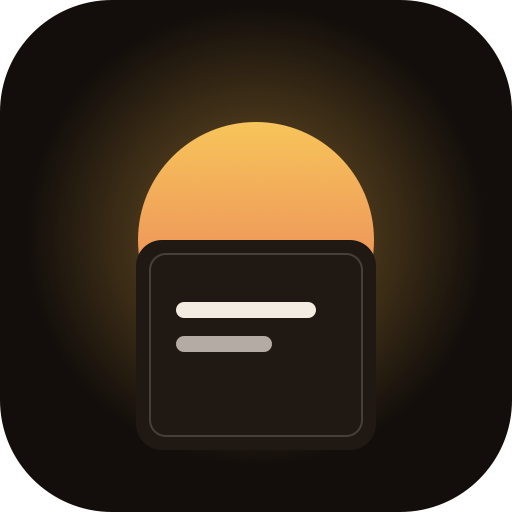
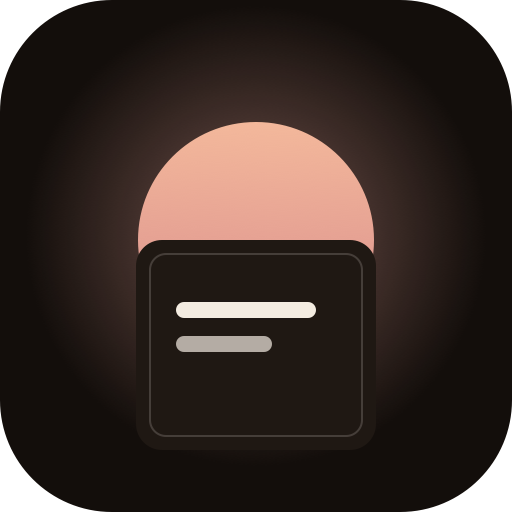
Modo claro: paleta pastel armoniosa sin ámbar (menta, lavanda, rosa, durazno; acento rosa arcilla)

Changed region(s): [[0.25, 0.2188, 0.75, 0.5]]

diff --git a/src/index.css b/src/index.css
@@ -21,37 +21,38 @@
   --ease-flip: cubic-bezier(0.65, 0, 0.35, 1);
 }
 
+/* Modo claro: pastel cálido y parejo. Base crema neutra, acento rosa arcilla, mazos en menta, lavanda, rosa y durazno. */
 :root,
 :root[data-theme='claro'] {
   color-scheme: light;
-  --bg: #f8f2ea;
-  --bg-bottom: #f3ebe0;
-  --bg-app: radial-gradient(130% 55% at 50% -8%, #fbe7d2 0%, #f8f2ea 50%, #f3ebe0 100%);
-  --bg-inicio: radial-gradient(120% 60% at 50% 18%, #fbe7d2 0%, #f8f2ea 50%, #f3ebe0 100%);
-  --surface: #fffbf6;
-  --surface-2: #efe6da;
-  --text: #2a1f18;
-  --muted: #6e5f52;
-  --muted-2: #9a8b7c;
-  --line: rgb(42 31 24 / 0.1);
-  --scrim: rgb(42 31 24 / 0.45);
-  --amber: #e9a83a;
-  --amber-hi: #f7c45a;
-  --on-amber: #1a1208;
-  --amber-text: #8a5a0e;
-  --coral: #f08a6b;
-  --coral-text: #b04a33;
-  --coral-bg: #fbe1d8;
-  --toast-bg: #2a1f18;
-  --toast-text: #f4ece1;
-  --btn2-bg: #fffbf6;
-  --btn2-shadow: inset 0 0 0 1px rgb(42 31 24 / 0.1), 0 6px 18px -12px rgb(42 31 24 / 0.35);
-  --btn1-shadow: 0 10px 24px -14px rgb(138 90 14 / 0.6);
-  --shadow-card: inset 0 1px 0 rgb(255 255 255 / 0.7), 0 18px 40px -24px rgb(42 31 24 / 0.45);
-  --shadow-sheet: 0 -20px 60px -20px rgb(42 31 24 / 0.35);
-  --row-ring: inset 0 0 0 1px rgb(42 31 24 / 0.08);
-  --gradient-especial: linear-gradient(165deg, #f7c45a 0%, #f08a6b 48%, #d98bb0 100%);
-  --glow-especial: rgb(247 196 90 / 0.45);
+  --bg: #f7f3ee;
+  --bg-bottom: #f2ece6;
+  --bg-app: radial-gradient(130% 55% at 50% -8%, #f6e6e2 0%, #f7f3ee 50%, #f2ece6 100%);
+  --bg-inicio: radial-gradient(120% 60% at 50% 18%, #f6e4e1 0%, #f7f3ee 52%, #f2ece6 100%);
+  --surface: #fffcfa;
+  --surface-2: #efe9e4;
+  --text: #2b2320;
+  --muted: #6f6360;
+  --muted-2: #9c908b;
+  --line: rgb(43 35 32 / 0.1);
+  --scrim: rgb(43 35 32 / 0.42);
+  --amber: #d4907e;
+  --amber-hi: #e4a994;
+  --on-amber: #2b1a14;
+  --amber-text: #9a4f3f;
+  --coral: #d98c8c;
+  --coral-text: #a9484c;
+  --coral-bg: #f8e1e1;
+  --toast-bg: #2b2320;
+  --toast-text: #f7f3ee;
+  --btn2-bg: #fffcfa;
+  --btn2-shadow: inset 0 0 0 1px rgb(43 35 32 / 0.09), 0 6px 18px -12px rgb(43 35 32 / 0.3);
+  --btn1-shadow: 0 10px 24px -14px rgb(154 79 63 / 0.55);
+  --shadow-card: inset 0 1px 0 rgb(255 255 255 / 0.7), 0 18px 40px -24px rgb(43 35 32 / 0.35);
+  --shadow-sheet: 0 -20px 60px -20px rgb(43 35 32 / 0.3);
+  --row-ring: inset 0 0 0 1px rgb(43 35 32 / 0.07);
+  --gradient-especial: linear-gradient(165deg, #bfe0d2 0%, #cfc6ee 48%, #f3c9d6 100%);
+  --glow-especial: rgb(207 198 238 / 0.55);
   --q-size: 32px;
   --q-lh: 1.14;
 }
@@ -89,11 +90,11 @@
 }
 
 /* Colores por mazo: carta, texto, nota, chip (sobre el fondo de la app), pila (cartas detrás) y borde interior. */
-[data-mazo='desconocidos'] { --m-card: #bfe3dd; --m-text: #143e3d; --m-note: #2f5f5b; --m-chip: #1e5a58; --m-chip-bg: rgb(30 90 88 / 0.12); --m-stack-1: #9fcfc7; --m-stack-2: #86bdb4; --m-line: rgb(20 62 61 / 0.16); }
-[data-mazo='amigos'] { --m-card: #f6dfa6; --m-text: #4a3610; --m-note: #6b5020; --m-chip: #8a5a0e; --m-chip-bg: rgb(138 90 14 / 0.12); --m-stack-1: #e8c97e; --m-stack-2: #d9b262; --m-line: rgb(74 54 16 / 0.18); }
-[data-mazo='pareja'] { --m-card: #f7cfc0; --m-text: #6e2d1f; --m-note: #7e3a2a; --m-chip: #b04a33; --m-chip-bg: #fbe1d8; --m-stack-1: #ecb5a2; --m-stack-2: #de9e88; --m-line: rgb(110 45 31 / 0.18); }
-[data-mazo='familia'] { --m-card: #e6cbda; --m-text: #4a1c35; --m-note: #6e3556; --m-chip: #7a3358; --m-chip-bg: rgb(122 51 88 / 0.12); --m-stack-1: #d4b0c4; --m-stack-2: #c398ae; --m-line: rgb(74 28 53 / 0.18); }
-[data-mazo='especial'] { --m-card: var(--surface); --m-text: var(--text); --m-note: var(--muted); --m-chip: var(--amber-text); --m-chip-bg: rgb(138 90 14 / 0.12); --m-stack-1: var(--surface-2); --m-stack-2: var(--surface-2); --m-line: var(--line); }
+[data-mazo='desconocidos'] { --m-card: #cfe5db; --m-text: #1f4a3c; --m-note: #3b6a5a; --m-chip: #2e6b57; --m-chip-bg: rgb(46 107 87 / 0.13); --m-stack-1: #b5d5c7; --m-stack-2: #9cc4b4; --m-line: rgb(31 74 60 / 0.16); }
+[data-mazo='amigos'] { --m-card: #dcd6f2; --m-text: #342a66; --m-note: #4f4590; --m-chip: #5b4a9e; --m-chip-bg: rgb(91 74 158 / 0.13); --m-stack-1: #c8c0e6; --m-stack-2: #b4aad9; --m-line: rgb(52 42 102 / 0.16); }
+[data-mazo='pareja'] { --m-card: #f6d3dc; --m-text: #6a2740; --m-note: #8a3f5a; --m-chip: #a8415f; --m-chip-bg: rgb(168 65 95 / 0.13); --m-stack-1: #ebbdca; --m-stack-2: #dea6b7; --m-line: rgb(106 39 64 / 0.16); }
+[data-mazo='familia'] { --m-card: #f9dcc8; --m-text: #68381c; --m-note: #85492b; --m-chip: #9a5230; --m-chip-bg: rgb(154 82 48 / 0.13); --m-stack-1: #efc8ae; --m-stack-2: #e3b396; --m-line: rgb(104 56 28 / 0.16); }
+[data-mazo='especial'] { --m-card: var(--surface); --m-text: var(--text); --m-note: var(--muted); --m-chip: var(--amber-text); --m-chip-bg: rgb(154 79 63 / 0.12); --m-stack-1: var(--surface-2); --m-stack-2: var(--surface-2); --m-line: var(--line); }
 
 :root[data-theme='oscuro'] [data-mazo='desconocidos'] { --m-card: #1e5a58; --m-text: #f1f4ef; --m-note: #cfe3df; --m-chip: #6fc3b8; --m-chip-bg: rgb(111 195 184 / 0.14); --m-stack-1: #194b49; --m-stack-2: #154140; --m-line: rgb(241 244 239 / 0.18); }
 :root[data-theme='oscuro'] [data-mazo='amigos'] { --m-card: #c9952e; --m-text: #1e1507; --m-note: #3a2a0b; --m-chip: #e9b454; --m-chip-bg: rgb(233 180 84 / 0.14); --m-stack-1: #a97d26; --m-stack-2: #8f6a1e; --m-line: rgb(30 21 7 / 0.22); }

diff --git a/src/components/Logo.tsx b/src/components/Logo.tsx
@@ -6,20 +6,20 @@ export default function Logo({ tamano = 124, className = '' }: Props) {
     <svg width={tamano} height={tamano} viewBox="0 0 512 512" role="img" aria-label="Sale a la Luz" className={className}>
       <defs>
         <linearGradient id="logo-sol" x1="0" y1="0" x2="0" y2="1">
-          <stop offset="0" stopColor="#F7C45A" />
-          <stop offset="1" stopColor="#F08A6B" />
+          <stop offset="0" stopColor="#F3B89B" />
+          <stop offset="1" stopColor="#D98C8C" />
         </linearGradient>
         <radialGradient id="logo-glow" cx="0.5" cy="0.5" r="0.5">
-          <stop offset="0" stopColor="#F7C45A" stopOpacity="0.5" />
-          <stop offset="1" stopColor="#F7C45A" stopOpacity="0" />
+          <stop offset="0" stopColor="#E8A69A" stopOpacity="0.5" />
+          <stop offset="1" stopColor="#E8A69A" stopOpacity="0" />
         </radialGradient>
       </defs>
       <circle cx="256" cy="236" r="230" fill="url(#logo-glow)" />
       <circle cx="256" cy="240" r="118" fill="url(#logo-sol)" />
-      <rect x="136" y="240" width="240" height="210" rx="26" fill="#2A1F18" />
+      <rect x="136" y="240" width="240" height="210" rx="26" fill="#2B2320" />
       <rect x="150" y="254" width="212" height="182" rx="16" fill="none" stroke="#F4ECE1" strokeOpacity="0.18" strokeWidth="2" />
-      <rect x="176" y="302" width="140" height="16" rx="8" fill="#F8F2EA" />
-      <rect x="176" y="336" width="96" height="16" rx="8" fill="#F8F2EA" fillOpacity="0.7" />
+      <rect x="176" y="302" width="140" height="16" rx="8" fill="#F7F3EE" />
+      <rect x="176" y="336" width="96" height="16" rx="8" fill="#F7F3EE" fillOpacity="0.7" />
     </svg>
   );
 }

diff --git a/index.html b/index.html
@@ -3,7 +3,7 @@
   <head>
     <meta charset="UTF-8" />
     <meta name="viewport" content="width=device-width, initial-scale=1, viewport-fit=cover, user-scalable=no" />
-    <meta name="theme-color" content="#F8F2EA" />
+    <meta name="theme-color" content="#F7F3EE" />
     <meta name="apple-mobile-web-app-capable" content="yes" />
     <meta name="apple-mobile-web-app-status-bar-style" content="black-translucent" />
     <meta name="description" content="Cartas de conversación para una noche con amigos, parejas y familia alrededor de un solo celular." />

diff --git a/vite.config.ts b/vite.config.ts
@@ -19,8 +19,8 @@ export default defineConfig({
         short_name: 'Sale a la Luz',
         description: 'Cartas de conversación para una noche con amigos, parejas y familia.',
         lang: 'es',
-        theme_color: '#F8F2EA',
-        background_color: '#F8F2EA',
+        theme_color: '#F7F3EE',
+        background_color: '#F7F3EE',
         display: 'standalone',
         orientation: 'portrait',
         start_url: base,

diff --git a/src/App.tsx b/src/App.tsx
@@ -27,7 +27,7 @@ export default function App() {
 
   useEffect(() => {
     document.documentElement.dataset.theme = tema;
-    document.querySelector('meta[name="theme-color"]')?.setAttribute('content', tema === 'oscuro' ? '#130E0B' : '#F8F2EA');
+    document.querySelector('meta[name="theme-color"]')?.setAttribute('content', tema === 'oscuro' ? '#130E0B' : '#F7F3EE');
   }, [tema]);
 
   switch (pantalla) {

diff --git a/README.md b/README.md
@@ -66,7 +66,7 @@ src/hooks/              useWakeLock, useMantenerApretado
 
 ## Diseño
 
-El sistema visual sale del canvas de Claude Design "Sale a la Luz" (opción A editorial): tipografías Newsreader (display) e Instrument Sans (UI) vía Google Fonts, tokens en [`src/index.css`](src/index.css) como variables CSS que cambian con `data-theme` en `<html>`. El **modo claro (pastel cálido) es el predeterminado**; el oscuro se elige en Configuración → Tema y queda guardado en el celular. Cada mazo define sus colores de carta, texto, nota, chip y pila con `[data-mazo]`, en ambos temas. Las fuentes se cachean en runtime para que la PWA las tenga offline después de la primera carga; si no están, cae a Georgia y la sans del sistema.
+El sistema visual sale del canvas de Claude Design "Sale a la Luz" (opción A editorial): tipografías Newsreader (display) e Instrument Sans (UI) vía Google Fonts, tokens en [`src/index.css`](src/index.css) como variables CSS que cambian con `data-theme` en `<html>`. El **modo claro es el predeterminado**, con una paleta pastel propia (menta, lavanda, rosa y durazno para los mazos, rosa arcilla como acento) que reemplazó los ámbar del canvas; el oscuro se elige en Configuración → Tema y queda guardado en el celular. Cada mazo define sus colores de carta, texto, nota, chip y pila con `[data-mazo]`, en ambos temas. Las fuentes se cachean en runtime para que la PWA las tenga offline después de la primera carga; si no están, cae a Georgia y la sans del sistema.
 
 ## Decisiones que no estaban en el brief
 
